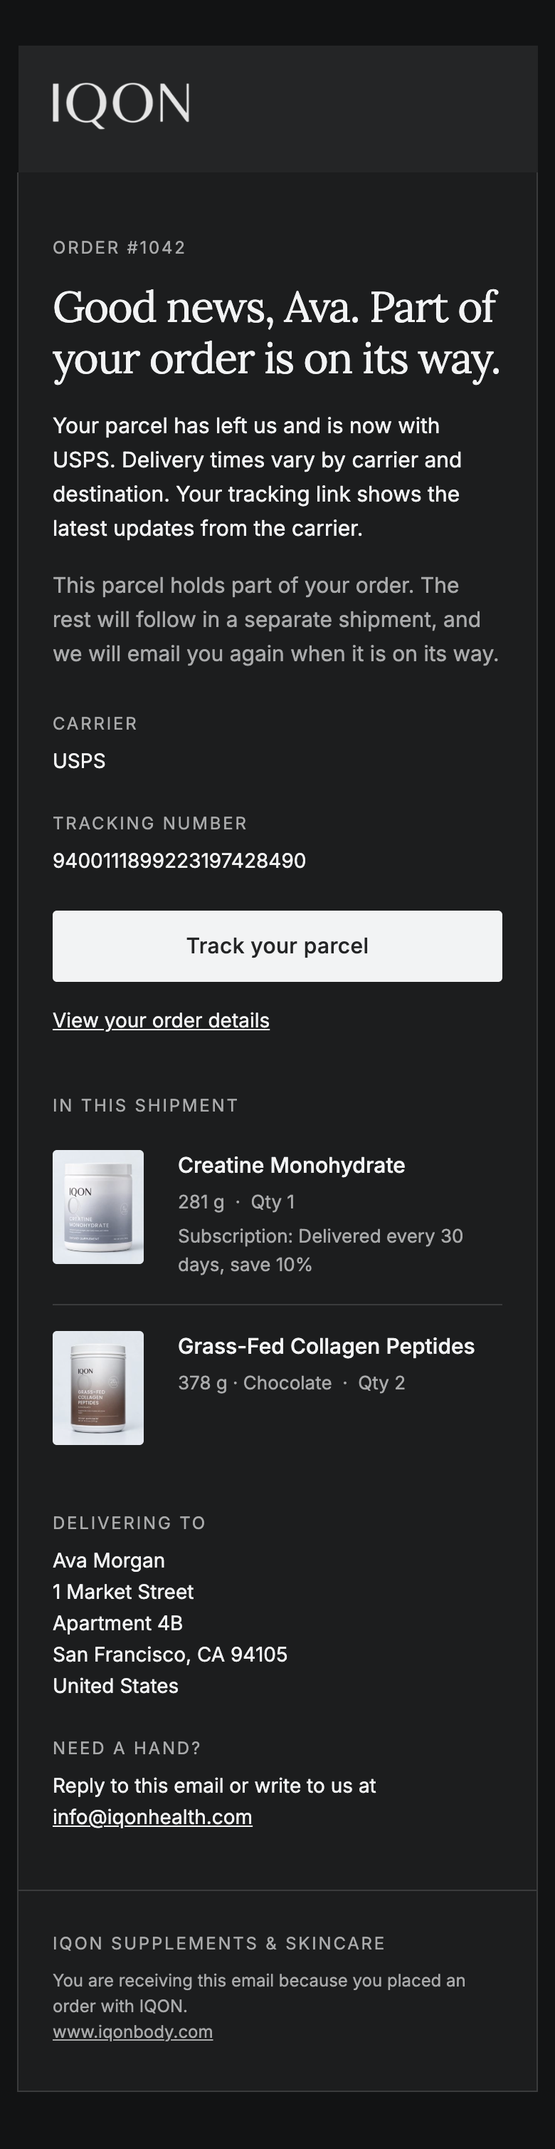
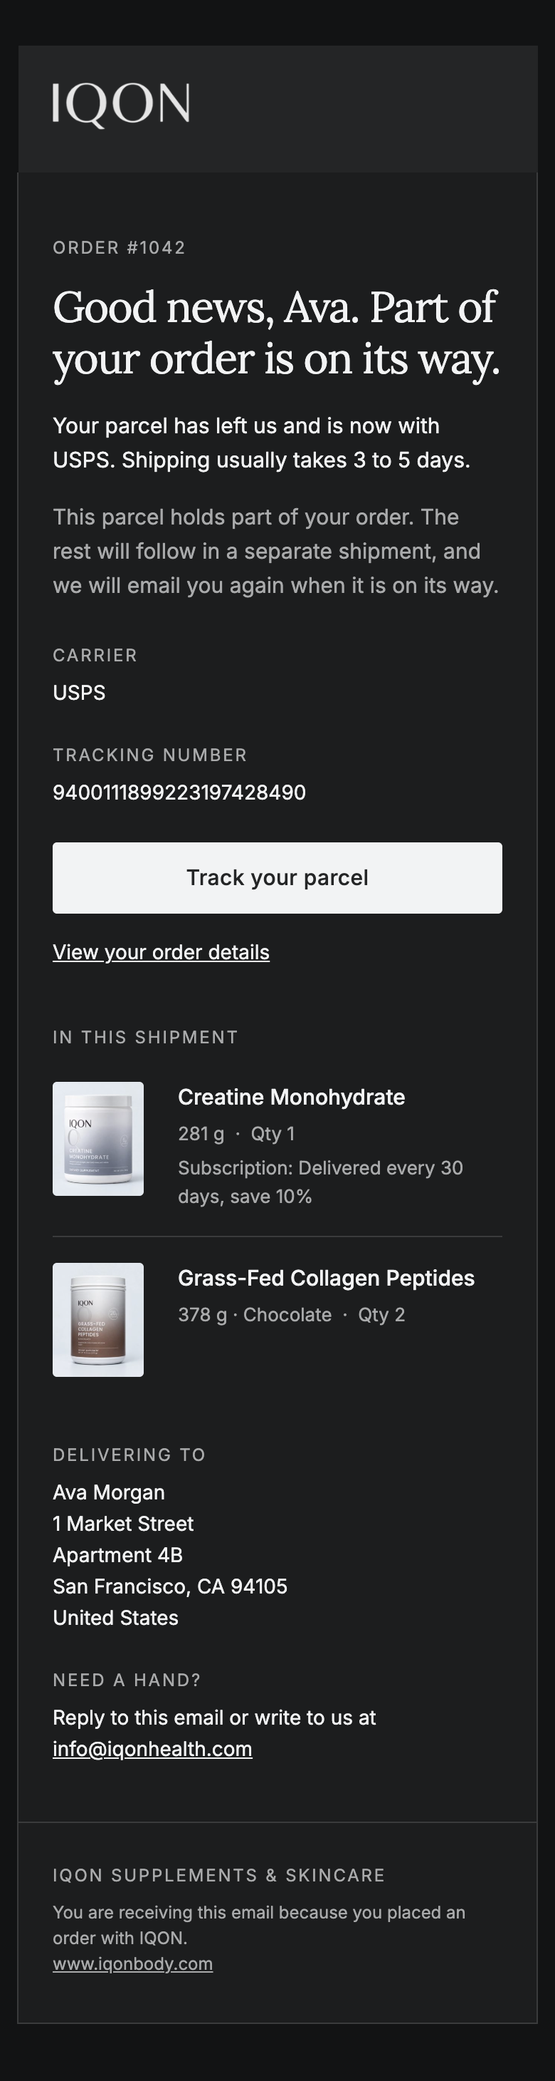
Shipping: state the owner's 3 to 5 day window on Help, product pages and the shipping email
Owner, 21 October 2026: tracking updates come from Shop, and shipping takes 3 to 5 days.

- SHIPPING_NOTE (Help and every PDP): "Shipping usually takes 3 to 5 days. Available shipping
  options and costs are shown at checkout." Days, not business days; no guarantee, start point
  or region. Help adds "Tracking updates are available through Shop once your order is on its
  way." The preview Help answer gives the window without the Shop claim.
- Shipping confirmation email: "Shipping usually takes 3 to 5 days." The tracking-update sentence
  added in 92865c3 is removed because Shopify/Shop sends tracking updates. The carrier, tracking
  number and Track your parcel block are unchanged.
- Tests that rejected any window now require the exact wording in raw Help/PDP HTML, in email
  HTML and text (full, partial and no-tracking cases), and reject business days or guarantees.
- Regenerated the shipping email examples. Docs describe the approved window; the dated pricing
  research gets a dated correction.

diff --git a/app/help/help-questions.tsx b/app/help/help-questions.tsx
@@ -2,5 +2,5 @@
 import { Accordion, AccordionContent, AccordionItem, AccordionTrigger } from "@/components/ui/accordion";
 import { useStore } from "../store-shell";
 import { DEFAULT_SUPPORT_EMAIL } from "@/lib/orders/emails/format";
-import { SHIPPING_NOTE } from "@/lib/commerce-policy";
-export function HelpQuestions(){const {mode}=useStore();const preview=mode!=="live";const questions=preview?[{q:"Can I place an order?",a:"This is a private design preview. You can browse the collections, open product details and build a bag, but payments and orders are not enabled."},{q:"Are these the final IQON products?",a:"The products, packaging, quantities and prices shown are provisional concepts. The approved assortment, final product information and availability will be confirmed before launch."},{q:"How do subscriptions work here?",a:"The product pages let you explore a sample subscription option and delivery frequency. Adding one to your bag does not create a subscription or authorize a charge."},{q:"How long does shipping take?",a:"Shipping options and costs will be shown at checkout once orders open. Processing and delivery can vary by product and destination."},{q:"Where can I find ingredients and directions?",a:"Each product page includes a place for its approved ingredient list and directions. Those details will be published with the final product, before it is offered for sale."},{q:"Is my bag saved?",a:"Your selection is saved in this browser. You can change quantities or remove products at any time. No payment, account or contact information is collected in this preview."}]:[{q:"How do I place an order?",a:"Choose your product and option, add it to your bag, then continue to checkout. You’ll confirm delivery details and payment securely with Shopify."},{q:"How long does shipping take?",a:SHIPPING_NOTE},{q:"When will I see tax and delivery charges?",a:"Your bag shows the product subtotal. Checkout confirms any applicable taxes and shipping charges before you pay."},{q:"Where can I find product information?",a:"Open the product page for its description, available options, and current price. Refer to the product label for its full information and directions."},{q:"Is my bag saved?",a:"Your bag is saved for this browser. You can update quantities or remove items before checkout."},{q:"What is IQON?",a:"IQON is a brand of supplements and skincare. Each product page lists the product’s format and contents, and its price once it is available to order. The product label gives the full information and directions."}];return <main id="main" className="help-wrap section-pad"><div><p className="eyebrow">QUESTIONS & CARE</p><h1>A little more clarity.</h1><p>{preview?"Everything you need to know about exploring the IQON store preview.":"A few helpful details before you choose your essentials."}</p></div><div><Accordion type="single" collapsible defaultValue="0">{questions.map((item,i)=><AccordionItem value={String(i)} key={item.q}><AccordionTrigger>{item.q}</AccordionTrigger><AccordionContent>{item.a}</AccordionContent></AccordionItem>)}</Accordion><address className="help-contact">Still have a question? Write to us at <a href={`mailto:${DEFAULT_SUPPORT_EMAIL}`}>{DEFAULT_SUPPORT_EMAIL}</a>.</address></div></main>;}
+import { SHIPPING_NOTE, SHOP_TRACKING_NOTE } from "@/lib/commerce-policy";
+export function HelpQuestions(){const {mode}=useStore();const preview=mode!=="live";const questions=preview?[{q:"Can I place an order?",a:"This is a private design preview. You can browse the collections, open product details and build a bag, but payments and orders are not enabled."},{q:"Are these the final IQON products?",a:"The products, packaging, quantities and prices shown are provisional concepts. The approved assortment, final product information and availability will be confirmed before launch."},{q:"How do subscriptions work here?",a:"The product pages let you explore a sample subscription option and delivery frequency. Adding one to your bag does not create a subscription or authorize a charge."},{q:"How long does shipping take?",a:"Shipping usually takes 3 to 5 days. Shipping options and costs will be shown at checkout once orders open."},{q:"Where can I find ingredients and directions?",a:"Each product page includes a place for its approved ingredient list and directions. Those details will be published with the final product, before it is offered for sale."},{q:"Is my bag saved?",a:"Your selection is saved in this browser. You can change quantities or remove products at any time. No payment, account or contact information is collected in this preview."}]:[{q:"How do I place an order?",a:"Choose your product and option, add it to your bag, then continue to checkout. You’ll confirm delivery details and payment securely with Shopify."},{q:"How long does shipping take?",a:`${SHIPPING_NOTE} ${SHOP_TRACKING_NOTE}`},{q:"When will I see tax and delivery charges?",a:"Your bag shows the product subtotal. Checkout confirms any applicable taxes and shipping charges before you pay."},{q:"Where can I find product information?",a:"Open the product page for its description, available options, and current price. Refer to the product label for its full information and directions."},{q:"Is my bag saved?",a:"Your bag is saved for this browser. You can update quantities or remove items before checkout."},{q:"What is IQON?",a:"IQON is a brand of supplements and skincare. Each product page lists the product’s format and contents, and its price once it is available to order. The product label gives the full information and directions."}];return <main id="main" className="help-wrap section-pad"><div><p className="eyebrow">QUESTIONS & CARE</p><h1>A little more clarity.</h1><p>{preview?"Everything you need to know about exploring the IQON store preview.":"A few helpful details before you choose your essentials."}</p></div><div><Accordion type="single" collapsible defaultValue="0">{questions.map((item,i)=><AccordionItem value={String(i)} key={item.q}><AccordionTrigger>{item.q}</AccordionTrigger><AccordionContent>{item.a}</AccordionContent></AccordionItem>)}</Accordion><address className="help-contact">Still have a question? Write to us at <a href={`mailto:${DEFAULT_SUPPORT_EMAIL}`}>{DEFAULT_SUPPORT_EMAIL}</a>.</address></div></main>;}

diff --git a/tests/orders/templates.test.ts b/tests/orders/templates.test.ts
@@ -1,7 +1,7 @@
 import { test } from "node:test";
 import assert from "node:assert/strict";
 import { renderOrderConfirmationEmail } from "../../lib/orders/emails/order-confirmation";
-import { DELIVERY_TIMING_COPY, MORE_TO_FOLLOW_COPY, TRACKING_UPDATES_COPY, renderShippingConfirmationEmail } from "../../lib/orders/emails/shipping-confirmation";
+import { DELIVERY_TIMING_COPY, MORE_TO_FOLLOW_COPY, renderShippingConfirmationEmail } from "../../lib/orders/emails/shipping-confirmation";
 import { brandConfig, maskEmail } from "../../lib/orders/emails/format";
 import { resolveLineItemImages, storefrontImageLookup } from "../../lib/orders/emails/images";
 import type { OrderSnapshot, ShipmentDetails } from "../../lib/orders/emails/types";
@@ -187,9 +187,14 @@ test("email markup is table based, 600px, Outlook and dark mode aware, and only 
   }
 });
 
-/** The storefront publishes no delivery window or speed, so neither may a shipping email. */
-function assertNoDeliveryPromise(email: { html: string; text: string }) {
-  for (const body of [visibleText(email.html), email.text]) assert.doesNotMatch(body, /\d+\s*(to|–|-)\s*\d+\s*(business\s*)?days|business days|within \d+|arrives? (by|in)|guaranteed/i);
+/** The owner's window, exactly as on the storefront: "3 to 5 days" once, never business days or a guarantee, and no
+ * tracking-update promise (Shopify/Shop sends those). Same in HTML and plain text. */
+const WINDOW = "Shipping usually takes 3 to 5 days.";
+function assertOwnerShippingWindow(email: { html: string; text: string }) {
+  for (const body of [visibleText(email.html), email.text]) {
+    assert.equal(body.split(WINDOW).length - 1, 1, "window stated exactly once");
+    assert.doesNotMatch(body, /business days?|guarantee|within \d+|arrives? (by|in)|latest updates/i);
+  }
 }
 
 test("shipping confirmation with tracking", async () => {
@@ -197,7 +202,7 @@ test("shipping confirmation with tracking", async () => {
   const email = renderShippingConfirmationEmail(shipment(order), BRAND);
   const visible = visibleText(email.html);
   assert.equal(email.subject, "Your IQON order #1042 is on its way");
-  for (const expected of ["Good news, Ava. Your order is on its way.", "UPS", "1Z999AA10123456784", "Track your parcel", DELIVERY_TIMING_COPY, TRACKING_UPDATES_COPY, "Creatine Monohydrate", "Delivering to", "1 Market Street"])
+  for (const expected of ["Good news, Ava. Your order is on its way.", "UPS", "1Z999AA10123456784", "Track your parcel", DELIVERY_TIMING_COPY, "Creatine Monohydrate", "Delivering to", "1 Market Street"])
     assert.ok(visible.includes(expected), `missing ${expected}`);
   // Same preference as lib/orders/tracking.ts resolveTrackingUrl: universal tracker by number first.
   assert.ok(email.html.includes('href="https://parcelsapp.com/en/tracking/1Z999AA10123456784"'));
@@ -207,9 +212,9 @@ test("shipping confirmation with tracking", async () => {
   assert.ok(!visible.includes(MORE_TO_FOLLOW_COPY));
   assert.ok(email.text.includes("Tracking number: 1Z999AA10123456784"));
   // HTML and plain text carry the same intro; no delivery window or speed promise in either.
-  const intro = "Your parcel has left us and is now with UPS. Delivery times vary by carrier and destination. Your tracking link shows the latest updates from the carrier.";
+  const intro = "Your parcel has left us and is now with UPS. Shipping usually takes 3 to 5 days.";
   assert.ok(visible.includes(intro) && email.text.includes(intro));
-  assertNoDeliveryPromise(email);
+  assertOwnerShippingWindow(email);
   assertCustomerCopyClean(email.html, email.text);
 });
 
@@ -227,22 +232,23 @@ test("shipping confirmation, partial shipment, no carrier URL", async () => {
   assert.ok(visible.includes("In this shipment"));
   assert.ok(!visible.includes("NMN"));
   assert.ok(email.html.includes("https://parcelsapp.com/en/tracking/1Z999AA10123456784"));
-  const intro = "Your parcel has left us and is now on its way to you. Delivery times vary by carrier and destination. Your tracking link shows the latest updates from the carrier.";
+  const intro = "Your parcel has left us and is now on its way to you. Shipping usually takes 3 to 5 days.";
   assert.ok(visible.includes(intro) && email.text.includes(intro));
   assert.ok(email.text.includes(MORE_TO_FOLLOW_COPY) && email.text.includes("IN THIS SHIPMENT"));
   assert.ok(email.text.includes("Track your parcel: https://parcelsapp.com/en/tracking/1Z999AA10123456784"));
-  assertNoDeliveryPromise(email);
+  assertOwnerShippingWindow(email);
   assertCustomerCopyClean(email.html, email.text);
 });
 
-test("shipping confirmation without any tracking link points nowhere and promises no window", async () => {
+test("shipping confirmation without any tracking link still states the window and shows no tracking button", async () => {
   const order = await snapshot();
   const email = renderShippingConfirmationEmail(shipment(order, { trackingUrl: null, trackingNumber: null }), BRAND);
   const visible = visibleText(email.html);
-  assert.ok(visible.includes(DELIVERY_TIMING_COPY) && email.text.includes(DELIVERY_TIMING_COPY));
-  assert.ok(!visible.includes(TRACKING_UPDATES_COPY) && !email.text.includes(TRACKING_UPDATES_COPY), "no reference to a missing tracking link");
-  assert.ok(!visible.includes("Track your parcel"));
-  assertNoDeliveryPromise(email);
+  const intro = "Your parcel has left us and is now with UPS. Shipping usually takes 3 to 5 days.";
+  assert.ok(visible.includes(intro) && email.text.includes(intro));
+  assert.ok(!visible.includes("Track your parcel") && !email.text.includes("Track your parcel"), "no link to a missing tracker");
+  assert.ok(visible.includes("Carrier") && email.text.includes("Carrier: UPS"), "carrier still shown");
+  assertOwnerShippingWindow(email);
 });
 
 test("no first name falls back to warm generic greetings", async () => {

diff --git a/lib/orders/emails/shipping-confirmation.ts b/lib/orders/emails/shipping-confirmation.ts
@@ -6,11 +6,9 @@ import {
 } from "./layout";
 import type { EmailBrandConfig, RenderedEmail, ShipmentDetails } from "./types";
 
-/** No delivery window is promised: none is an approved policy. Matches the storefront's shipping statement
- * (lib/commerce-policy.ts SHIPPING_NOTE: delivery can vary by product and destination). */
-export const DELIVERY_TIMING_COPY = "Delivery times vary by carrier and destination.";
-/** Added only when the email has a tracking link to point to. */
-export const TRACKING_UPDATES_COPY = "Your tracking link shows the latest updates from the carrier.";
+/** The owner's typical window (21 October 2026), worded as on the storefront (lib/commerce-policy.ts SHIPPING_NOTE):
+ * 3 to 5 days, not business days, no guarantee. Tracking updates come from Shopify/Shop, so none are promised here. */
+export const DELIVERY_TIMING_COPY = "Shipping usually takes 3 to 5 days.";
 export const MORE_TO_FOLLOW_COPY =
   "This parcel holds part of your order. The rest will follow in a separate shipment, and we will email you again when it is on its way.";
 
@@ -36,8 +34,8 @@ export function renderShippingConfirmationEmail(shipment: ShipmentDetails, brand
     : "Your parcel is on its way. Track it any time.";
   const what = partial ? "Part of your order is on its way." : "Your order is on its way.";
   const title = name ? `Good news, ${name}. ${what}` : `Good news. ${what}`;
+  const intro = `Your parcel has left us and is now${carrierPhrase || " on its way to you"}. ${DELIVERY_TIMING_COPY}`;
   const trackingUrl = shipmentTrackingUrl(shipment);
-  const intro = `Your parcel has left us and is now${carrierPhrase || " on its way to you"}. ${DELIVERY_TIMING_COPY}${trackingUrl ? ` ${TRACKING_UPDATES_COPY}` : ""}`;
   const orderStatusUrl = safeHttpsUrl(shipment.orderStatusUrl);
 
   const trackingCells = twoColumns(

diff --git a/docs/emails/shipping-confirmation-partial.html b/docs/emails/shipping-confirmation-partial.html
@@ -63,7 +63,7 @@ u + #body a{color:inherit;text-decoration:none;}
 <tr><td class="bg-card pad b-line" bgcolor="#ffffff" style="background:#ffffff;padding:44px 40px 40px 40px;border-left:1px solid #dbdcdd;border-right:1px solid #dbdcdd;">
 <p class="t-muted" style="margin:0 0 14px 0;font-family:Inter,'Helvetica Neue',Helvetica,Arial,sans-serif;font-size:12px;line-height:18px;letter-spacing:1.4px;text-transform:uppercase;color:#707172;">Order #1042</p>
 <h1 class="h1 t-ink" style="margin:0 0 18px 0;font-family:Lora,Georgia,'Times New Roman',serif;font-size:34px;line-height:40px;font-weight:400;letter-spacing:-0.8px;color:#242526;">Good news, Ava. Part of your order is on its way.</h1>
-<p class="t-ink" style="margin:0 0 16px 0;font-family:Inter,'Helvetica Neue',Helvetica,Arial,sans-serif;font-size:15px;line-height:24px;color:#242526;">Your parcel has left us and is now with USPS. Delivery times vary by carrier and destination. Your tracking link shows the latest updates from the carrier.</p>
+<p class="t-ink" style="margin:0 0 16px 0;font-family:Inter,'Helvetica Neue',Helvetica,Arial,sans-serif;font-size:15px;line-height:24px;color:#242526;">Your parcel has left us and is now with USPS. Shipping usually takes 3 to 5 days.</p>
 <p class="t-muted" style="margin:0 0 0px 0;font-family:Inter,'Helvetica Neue',Helvetica,Arial,sans-serif;font-size:15px;line-height:24px;color:#707172;">This parcel holds part of your order. The rest will follow in a separate shipment, and we will email you again when it is on its way.</p>
 <table role="presentation" width="100%" cellpadding="0" cellspacing="0" border="0"><tr><td style="height:28px;line-height:28px;font-size:0;">&nbsp;</td></tr></table>
 <table role="presentation" width="100%" cellpadding="0" cellspacing="0" border="0"><tr>

diff --git a/tests/seo/buyer-paths.test.ts b/tests/seo/buyer-paths.test.ts
@@ -4,7 +4,7 @@
 //   node --import tsx --test tests/seo/buyer-paths.test.ts
 import test from "node:test";
 import assert from "node:assert/strict";
-import { SHIPPING_NOTE, isOrderable } from "../../lib/commerce-policy";
+import { SHIPPING_NOTE, SHOP_TRACKING_NOTE, isOrderable } from "../../lib/commerce-policy";
 import { orderableFormats, productGuides, sectionFact, sectionProducts } from "../../lib/buyer-paths";
 import { products as editorialProducts, type Product } from "../../lib/catalog";
 import { formatOrder } from "../../lib/departments";
@@ -81,7 +81,10 @@ test("format selection lists only formats that can be ordered now", () => {
   assert.deepEqual(orderableFormats(live.map(p => p.type === "Gummies" ? {...p, available: false} : p), "live"), ["Powder", "Capsules", "Sachets"]);
 });
 
-test("the shipping statement makes no delivery-time or policy promise", () => {
-  assert.match(SHIPPING_NOTE, /shown at checkout/);
-  assert.doesNotMatch(SHIPPING_NOTE, /\d|business day|guarantee|free|refund|return/i);
+test("the shipping statement is the owner's 3 to 5 day window, with checkout-calculated options", () => {
+  assert.equal(SHIPPING_NOTE, "Shipping usually takes 3 to 5 days. Available shipping options and costs are shown at checkout.");
+  // Not business days, no guarantee, no start point, no region, no policy.
+  assert.doesNotMatch(SHIPPING_NOTE, /business|guarantee|from (the )?(date|order|dispatch)|after (you|your)|\bUS\b|\bUSA\b|United States|contiguous|free|refund|return/i);
+  assert.equal(SHOP_TRACKING_NOTE, "Tracking updates are available through Shop once your order is on its way.");
+  assert.doesNotMatch(SHOP_TRACKING_NOTE, /we('ll| will)? (email|text|send)|SMS/i, "no separate IQON message implied");
 });

diff --git a/lib/commerce-policy.ts b/lib/commerce-policy.ts
@@ -3,9 +3,12 @@ export const SKINCARE_COMING_SOON = true;
 export function isComingSoon(product:{category?:string}) {
   return SKINCARE_COMING_SOON && product.category === "skincare";
 }
-/** The only shipping statement the storefront makes: Shopify checkout calculates the options. No delivery window
- * or policy is published until the merchant approves one. Shared by /help and every product page. */
-export const SHIPPING_NOTE = "Available shipping options and costs are shown at checkout. Processing and delivery can vary by product and destination.";
+/** The storefront's shipping statement, shared by /help and every product page. The typical window is the owner's
+ * (21 October 2026): "3 to 5 days", not business days, with no guarantee or start point. Methods and costs come
+ * from Shopify checkout. */
+export const SHIPPING_NOTE = "Shipping usually takes 3 to 5 days. Available shipping options and costs are shown at checkout.";
+/** Help only: Shopify's Shop handles tracking updates (owner, 21 October 2026); no separate message from IQON is implied. */
+export const SHOP_TRACKING_NOTE = "Tracking updates are available through Shop once your order is on its way.";
 /** A product a shopper can order right now: live Shopify data, not coming soon or unpriced, with an available
  * variant. Product links presented as a next purchase step (guides, selections) require this; anything else fails closed. */
 export function isOrderable(product:{category?:string;available?:boolean;pricePending?:boolean;variants?:{available:boolean}[]}, mode:string) {

diff --git a/docs/emails/shipping-confirmation.html b/docs/emails/shipping-confirmation.html
@@ -63,7 +63,7 @@ u + #body a{color:inherit;text-decoration:none;}
 <tr><td class="bg-card pad b-line" bgcolor="#ffffff" style="background:#ffffff;padding:44px 40px 40px 40px;border-left:1px solid #dbdcdd;border-right:1px solid #dbdcdd;">
 <p class="t-muted" style="margin:0 0 14px 0;font-family:Inter,'Helvetica Neue',Helvetica,Arial,sans-serif;font-size:12px;line-height:18px;letter-spacing:1.4px;text-transform:uppercase;color:#707172;">Order #1042</p>
 <h1 class="h1 t-ink" style="margin:0 0 18px 0;font-family:Lora,Georgia,'Times New Roman',serif;font-size:34px;line-height:40px;font-weight:400;letter-spacing:-0.8px;color:#242526;">Good news, Ava. Your order is on its way.</h1>
-<p class="t-ink" style="margin:0 0 0px 0;font-family:Inter,'Helvetica Neue',Helvetica,Arial,sans-serif;font-size:15px;line-height:24px;color:#242526;">Your parcel has left us and is now with UPS. Delivery times vary by carrier and destination. Your tracking link shows the latest updates from the carrier.</p>
+<p class="t-ink" style="margin:0 0 0px 0;font-family:Inter,'Helvetica Neue',Helvetica,Arial,sans-serif;font-size:15px;line-height:24px;color:#242526;">Your parcel has left us and is now with UPS. Shipping usually takes 3 to 5 days.</p>
 
 <table role="presentation" width="100%" cellpadding="0" cellspacing="0" border="0"><tr><td style="height:28px;line-height:28px;font-size:0;">&nbsp;</td></tr></table>
 <table role="presentation" width="100%" cellpadding="0" cellspacing="0" border="0"><tr>

diff --git a/docs/order-emails.md b/docs/order-emails.md
@@ -90,7 +90,7 @@ When a renewal is recognised, the `order_confirmation` row is written as `skippe
 
 * Brand: "IQON", palette and type from `app/globals.css` (ink #242526, paper #fbfcfd, Lora headings, Inter body). Header wordmark is `public/images/email/iqon-wordmark-ink.png` (white on ink, opaque, so it survives dark mode inversion).
 * No dash characters in customer copy, no health or medical claims. Enforced by `tests/orders/templates.test.ts`.
-* No delivery window is promised (none is an approved policy). The shipping email says "Delivery times vary by carrier and destination." and, only when a tracking link exists, "Your tracking link shows the latest updates from the carrier." This matches the storefront help page and product pages, where checkout shows the available shipping options. Add a window only after the owner approves a fulfillment commitment; `tests/orders/templates.test.ts` rejects one until then.
+* "Shipping usually takes 3 to 5 days." is the owner's typical window (approved 21 October 2026) and matches the storefront help page and product pages (`SHIPPING_NOTE` in `lib/commerce-policy.ts`). It is "days", not business days, with no guarantee or start point. The email adds no tracking-update promise, because Shopify/Shop sends tracking updates; the existing carrier, tracking number and "Track your parcel" block stays. `tests/orders/templates.test.ts` checks the exact sentence in HTML and text.
 * Partial shipments list only that fulfilment's items and add: "This parcel holds part of your order. The rest will follow in a separate shipment…".
 * Tracking button reuses `resolveTrackingUrl` from `lib/orders/tracking.ts`, so the email and the storefront agree: the universal tracker keyed on the number (parcelsapp; carrier pages such as USPS stall on anti bot interstitials), otherwise Shopify's `tracking_url` when it is https.
 * Totals: Subtotal is the **pre discount** line sum at current quantities (Shopify's `subtotal_price` is already after discounts, so it is not used), Discount is `current_total_discounts` (line, order and shipping discounts), Shipping is `total_shipping_price_set` (before shipping discounts), Tax is `current_total_tax`, Total is `current_total_price`. Subtotal minus discounts plus shipping plus tax (unless `taxes_included`) equals the total; tested in `tests/orders/templates.test.ts`. If a real order does not add up (for example a tip or duties, which the email does not itemise), the handler logs `totals_mismatch` with the difference and still sends.

diff --git a/docs/shopify-connection.md b/docs/shopify-connection.md
@@ -43,7 +43,7 @@ Enter the secret directly in Vercel. Do not paste it into chat, source code, scr
 
 4. Prices are approved. Confirm final labels/formulas, supplier costs and actual fulfillment inventory, and assign the correct inventory/fulfillment locations and shipping weights. No guessed stock, fulfillment service, product cost or shipping weight was imported. Finalize the three skincare formulas before publication. Keep the manifest in sync with approved price changes.
 5. Configure payment processing and payout details in Shopify. The account owner must complete any required business/bank verification. Confirm the actual merchant billing country and rates before relying on the US fee examples in the pricing report.
-6. Configure US shipping zones/rates, fulfillment and tax settings. The suggested $75 free-shipping threshold and $5.95 standard rate are cost-dependent proposals, not active settings. The website and shipping email publish no delivery window (checkout shows the calculated options); add one only after the owner approves a fulfillment commitment.
+6. Configure US shipping zones/rates, fulfillment and tax settings. The suggested $75 free-shipping threshold and $5.95 standard rate are cost-dependent proposals, not active settings. The website and shipping email state the owner's typical window, "Shipping usually takes 3 to 5 days" (approved 21 October 2026), and checkout shows the calculated options; keep Shopify delivery estimates consistent with it.
 7. Set reviewed products to **Active**, publish them to the **IQON Headless storefront**, and add actual inventory. Keep the launch-review tags until the merchant has completed review. Do not activate draft concepts merely to make a test pass.
 8. Run the checks below, then complete a checkout using the payment provider's test mode. Verify shipping, tax, discounts, confirmation emails and the resulting order. Turn off test mode before accepting real payments. No test or real order has been submitted in this work.
 

diff --git a/docs/pricing-research-2026-09-10.md b/docs/pricing-research-2026-09-10.md
@@ -90,7 +90,7 @@ Suggested bundles, subject to landed-cost review:
 
 Do not stack the full subscription discount on these bundle prices by default. Bundle recommendations are merchandising proposals, not a claim that combined products have been tested together. Start with ordinary prices, not permanent “sales” or invented crossed-out reference prices.
 
-**Shipping hypothesis:** free standard US shipping from **$75 after discounts**, with **$5.95 below $75**. This is a proposal to check against fulfillment quotes, not a configured rate or a promise that it is profitable. The website currently says 3–5 business days; obtain a fulfillment commitment that supports that statement before launch. Confirm whether the timeframe includes processing. *(Update 21 October 2026: no fulfillment commitment was found, so the storefront help page and shipping email no longer state a delivery window; checkout shows the calculated options. This research note is otherwise unchanged.)*
+**Shipping hypothesis:** free standard US shipping from **$75 after discounts**, with **$5.95 below $75**. This is a proposal to check against fulfillment quotes, not a configured rate or a promise that it is profitable. The website currently says 3–5 business days; obtain a fulfillment commitment that supports that statement before launch. Confirm whether the timeframe includes processing. *(Correction, 21 October 2026: the owner confirmed shipping usually takes 3 to 5 days (calendar days, not business days; no guarantee). The storefront help page, product pages and shipping email now say "Shipping usually takes 3 to 5 days." Checkout shows the calculated options and costs. The rate proposal above is unchanged and still unconfigured.)*
 
 ## Margin decision before publishing
 
